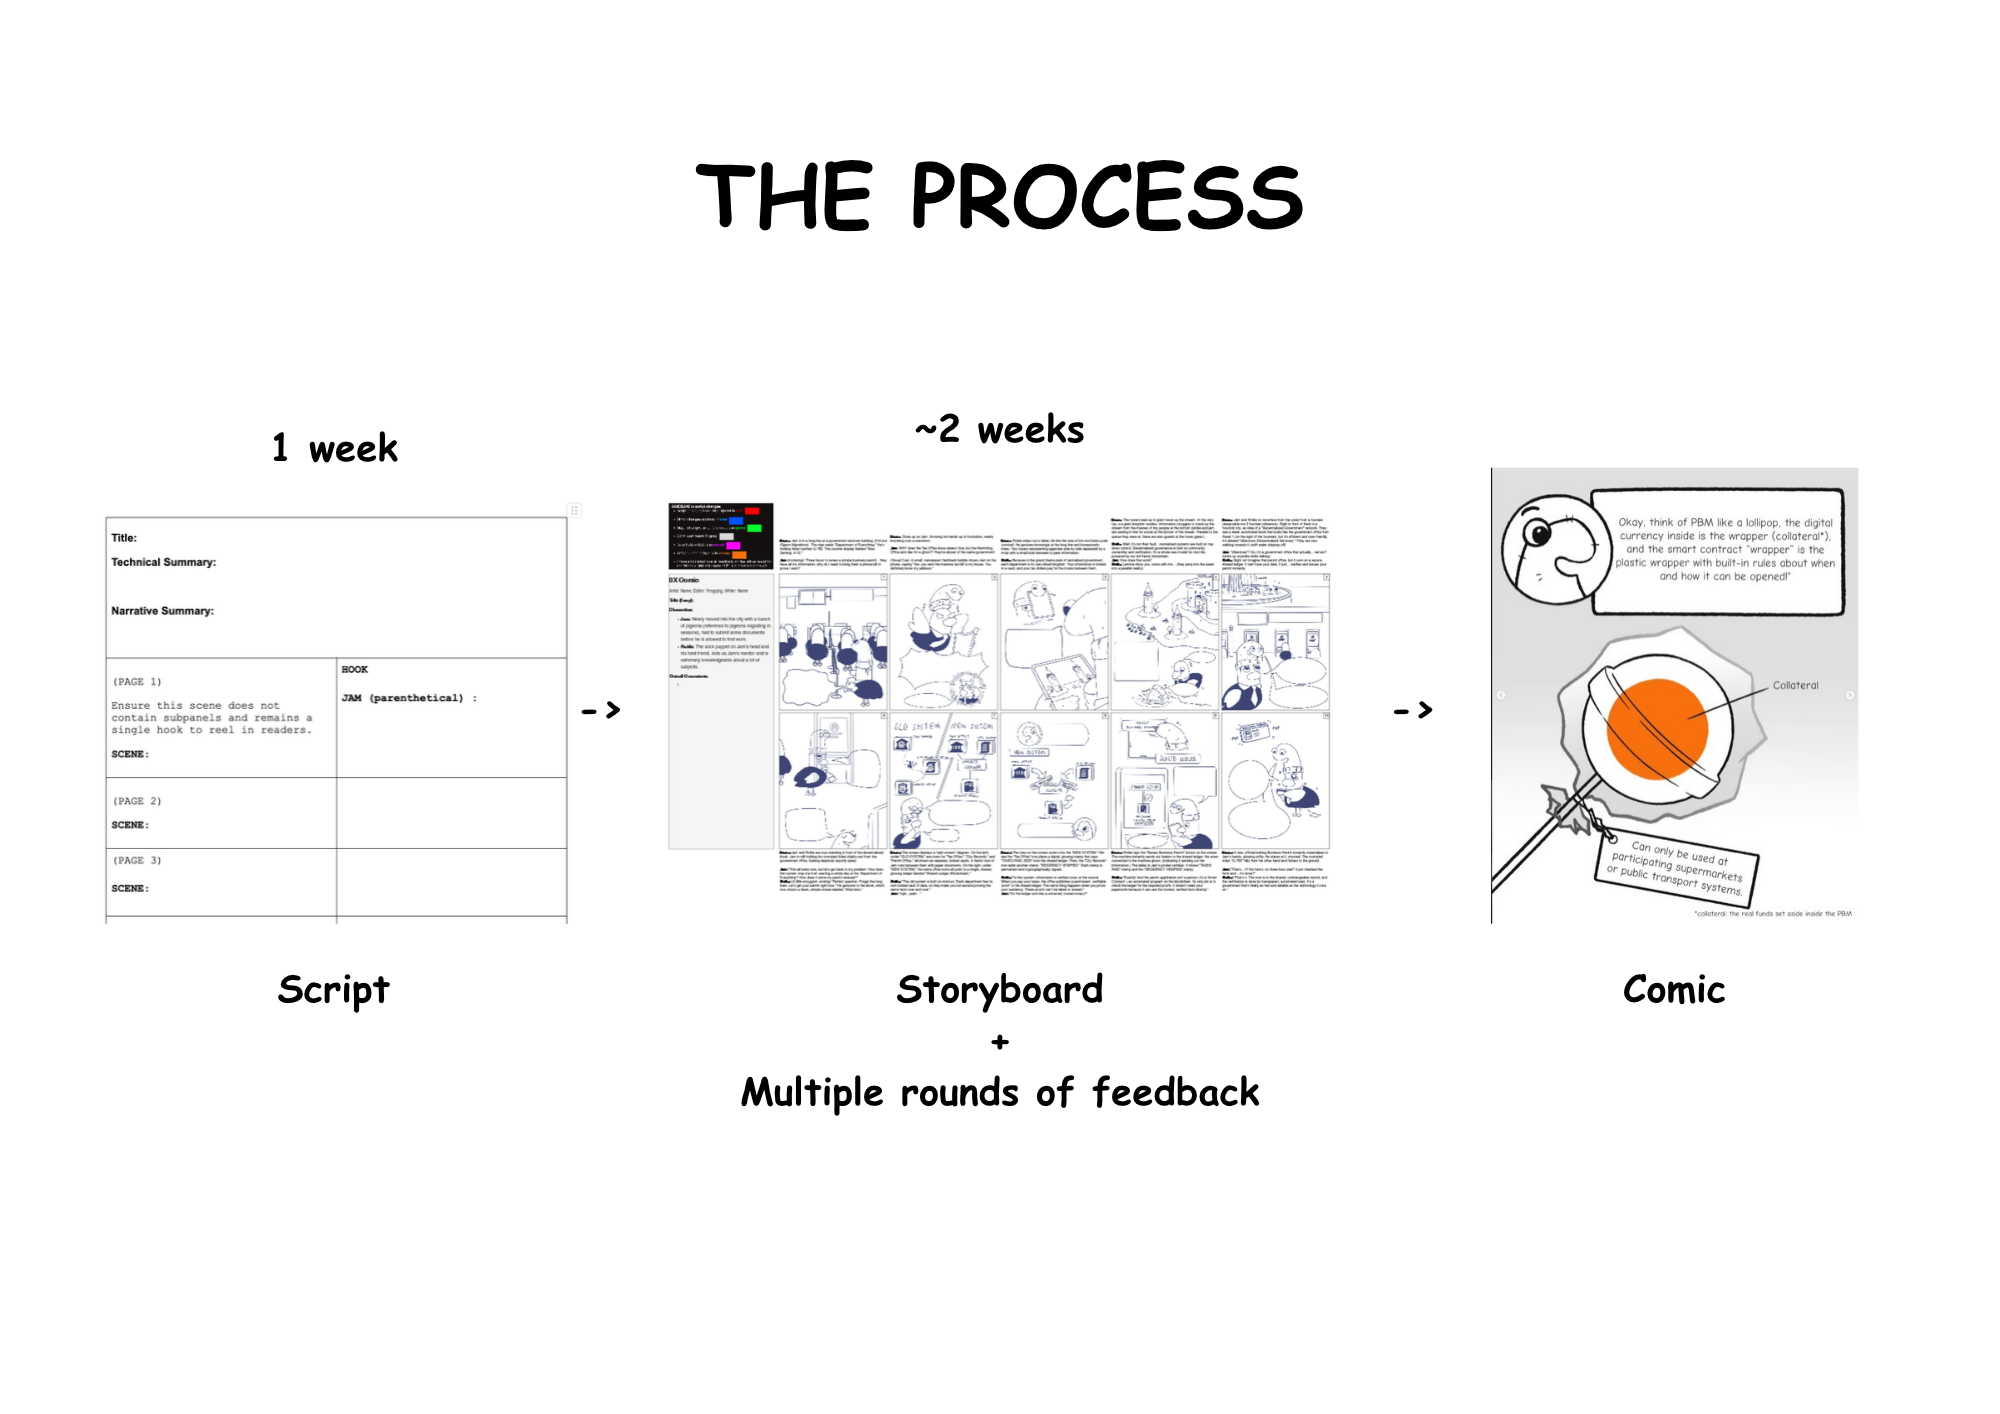
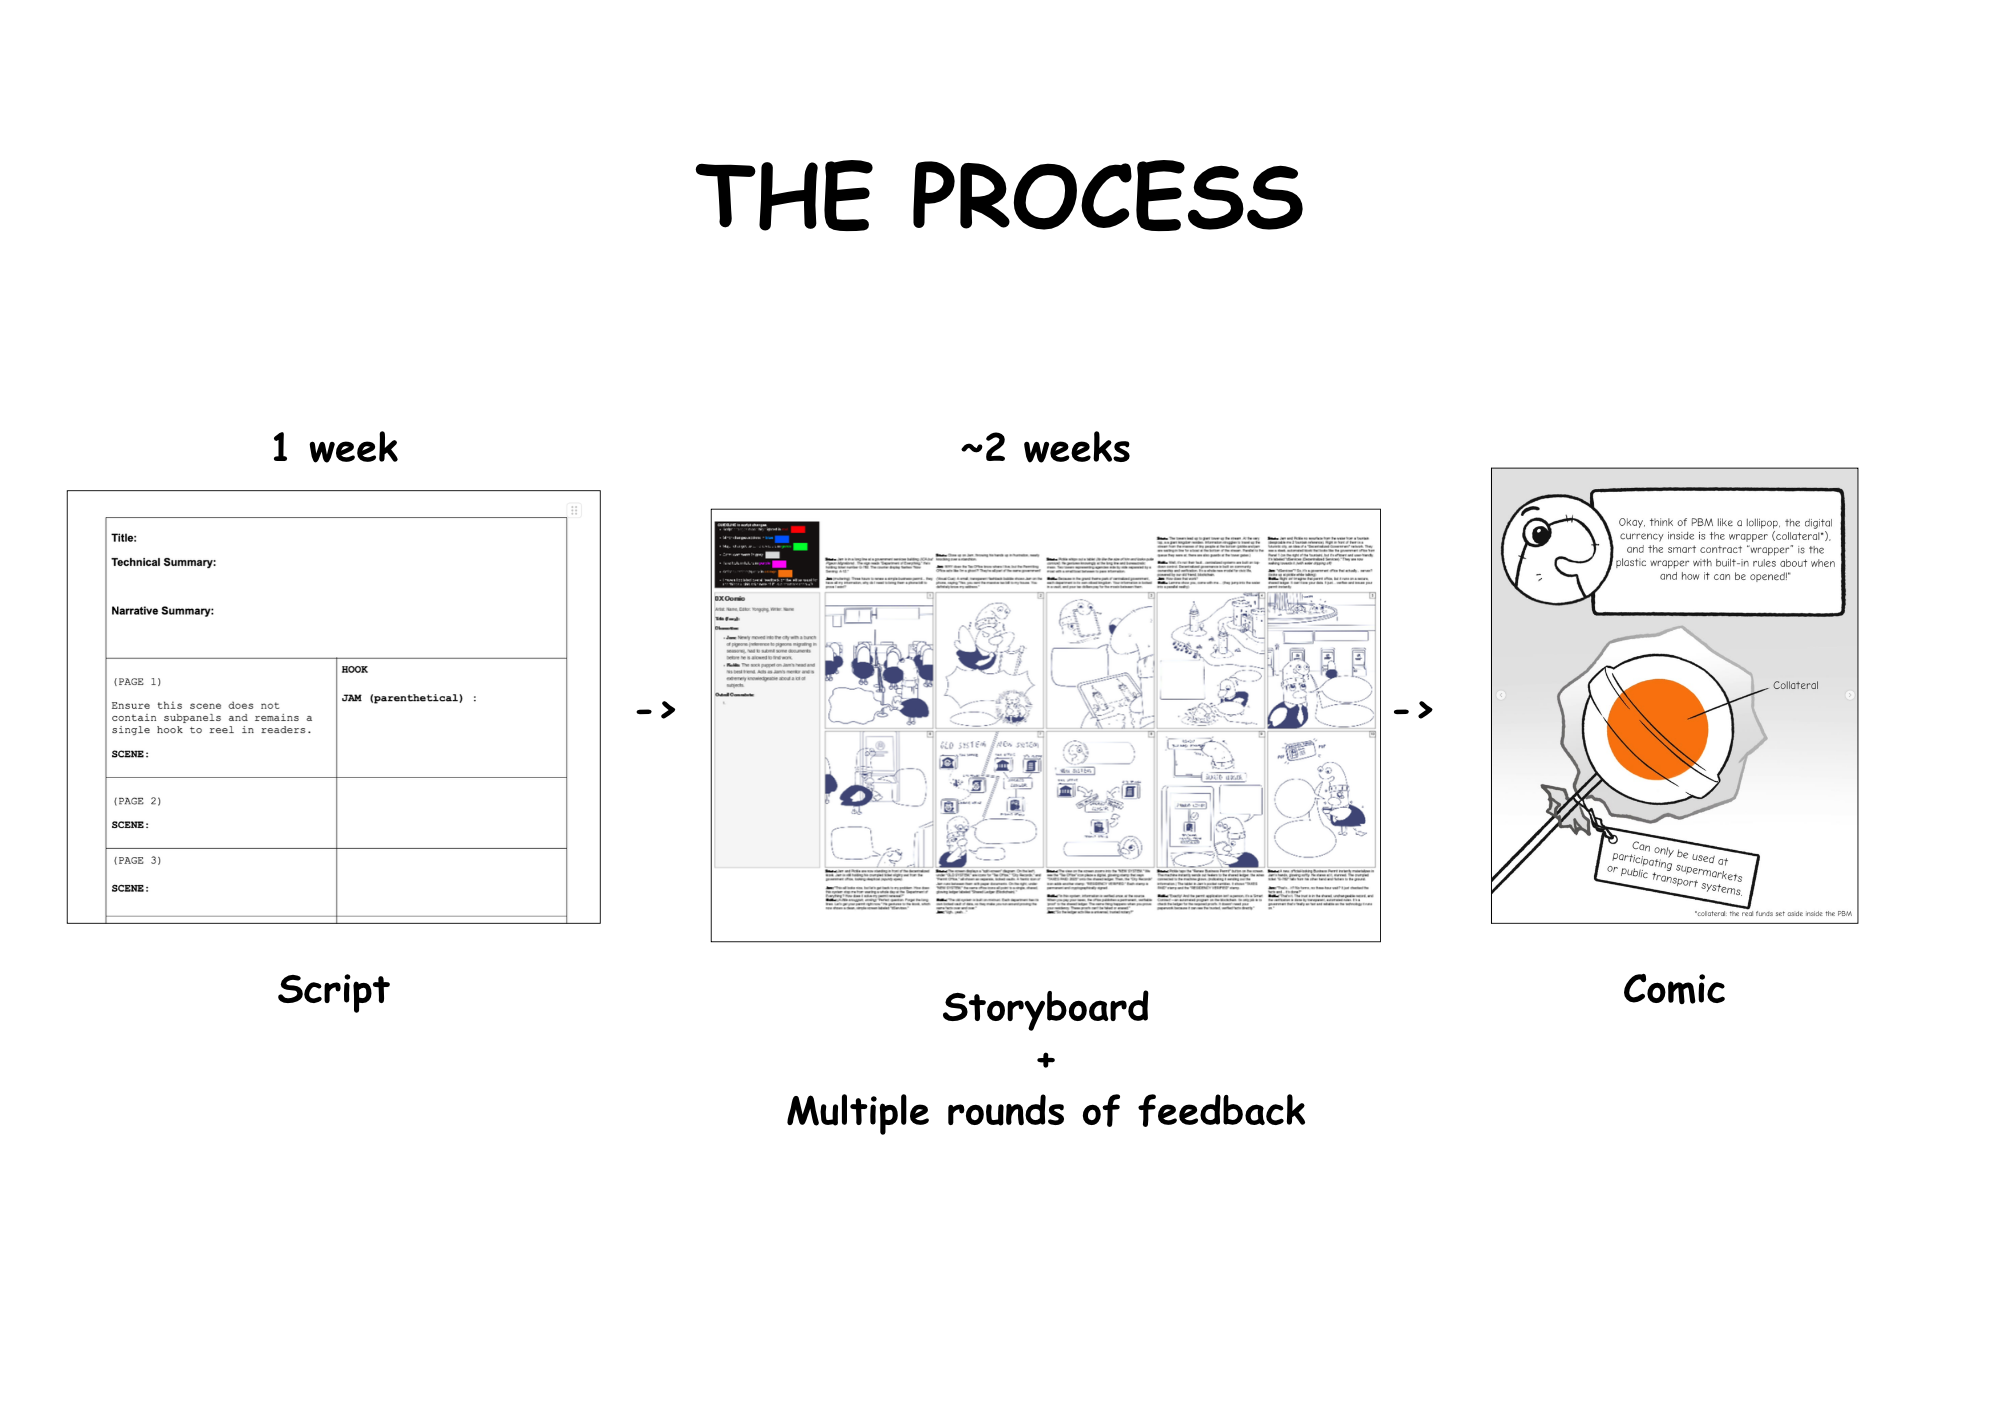
update: more proofreading

diff --git a/_posts/2026-08-21-toilet-paper-company.md b/_posts/2026-08-21-toilet-paper-company.md
@@ -24,7 +24,7 @@ I started a small comics studio maybe almost 2 years ago. I had no idea how to m
 
 ## How we began
 
-The idea for the company started out pretty grey in december 2024 when my founder lets call him **Founder A** decided to talk to me about making tech concepts easier for people to understand. We felt that technology was accelerating at a pace too fast for the general public which can lead to a and since Founder A and I studied a cybersecurity diploma we saw a business opportunity here and we wanted to make it interesting. At this point, we were chatting a lot about the problem but never defined a solution, but somehow (i dont exactly remember how) we came up with the idea of using comics to translate these ideas and the company evolved from there.
+The idea for the company started out pretty grey in december 2024 when my a friend I've known since polytechnic lets call him **Founder A** decided to talk to me about making tech concepts easier for people to understand. We felt that technology was accelerating at a pace too fast for the general public and since Founder A and I studied a cybersecurity diploma we saw a business opportunity here. At this point, we were chatting a lot about the problem but never defined a solution, but somehow (i dont exactly remember how) we came up with the idea of using comics to translate these ideas and the company evolved from there.
 
 ## v1.0
 
